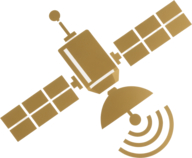
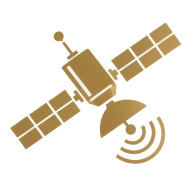
feat: add functional demo mode with isolated database router
Add DemoRouter (thread-local) and DemoModeMiddleware to route
X-Demo-Mode requests to a separate demo database. Register the demo
database in local/production settings plus DATABASE_ROUTERS.

Add seed_demo.py to create and populate the demo DB (5 users, 50
defects, municipality, supports) and reset_demo.sh. Add demo-reset
service (profile demo) with daily reset in docker-compose.

Add loginDemo() in api.js that sends X-Demo-Mode on login and wire
enterDemoMode to it.

Fix offline sync by sending Bearer-prefixed token in service worker
(previously returned 401 forever). Fix email_verified field name in
AuthContext.

Replace header logo SVG with project icon and regenerate square
favicon PNGs.

Changed region(s): [[0.0, 0.0, 1.0, 1.0]]

diff --git a/frontend/src/pages/Login.jsx b/frontend/src/pages/Login.jsx
@@ -43,9 +43,7 @@ export default function Login() {
         className="w-full max-w-md border p-8" style={{ background: 'var(--color-bg-surface)', borderColor: 'var(--color-border-default)' }}>
         <motion.div initial={{ scale: 0.9 }} animate={{ scale: 1 }} transition={{ delay: 0.1, type: 'spring', stiffness: 200 }} className="flex flex-col items-center mb-8">
           <div style={{ width: '3rem', height: '3rem', background: 'var(--color-gold-500)', display: 'flex', alignItems: 'center', justifyContent: 'center', marginBottom: '0.75rem' }}>
-            <svg width="24" height="24" viewBox="0 0 24 24" fill="none" stroke="currentColor" strokeWidth="2" style={{ color: 'var(--color-text-inverse)' }}>
-              <path d="M12 2L2 7l10 5 10-5-10-5zM2 17l10 5 10-5M2 12l10 5 10-5"/>
-            </svg>
+            <img src="/icon.svg" alt="Central de Inteligência Urbana" style={{ width: '100%', height: '100%', objectFit: 'cover' }} />
           </div>
           <h1 className="text-lg font-semibold" style={{ color: 'var(--color-text-primary)' }}>Central de Inteligência Urbana</h1>
           <p className="text-sm mt-2" style={{ color: 'var(--color-text-muted)' }}>Chamados para Serviços Públicos</p>

diff --git a/frontend/src/pages/MapPage.jsx b/frontend/src/pages/MapPage.jsx
@@ -270,9 +270,7 @@ export default function MapPage() {
       <header style={{ display: 'flex', alignItems: 'center', justifyContent: 'space-between', height: 56, padding: '0 16px', flexShrink: 0, borderBottom: '1px solid var(--color-border-default)', background: 'var(--color-bg-elevated)', zIndex: 1000 }}>
         <div className="flex items-center gap-2">
           <div style={{ width: '1.75rem', height: '1.75rem', background: 'var(--color-gold-500)', display: 'flex', alignItems: 'center', justifyContent: 'center', flexShrink: 0 }}>
-            <svg width="14" height="14" viewBox="0 0 24 24" fill="none" stroke="currentColor" strokeWidth="2" style={{ color: 'var(--color-text-inverse)' }}>
-              <path d="M12 2L2 7l10 5 10-5-10-5zM2 17l10 5 10-5M2 12l10 5 10-5"/>
-            </svg>
+            <img src="/icon.svg" alt="Central de Inteligência Urbana" style={{ width: '100%', height: '100%', objectFit: 'cover' }} />
           </div>
           <div className="max-sm:hidden">
             <h1 className="text-sm font-medium" style={{ color: 'var(--color-text-primary)' }}>Central de Inteligência Urbana</h1>

diff --git a/frontend/src/pages/Register.jsx b/frontend/src/pages/Register.jsx
@@ -77,9 +77,7 @@ export default function Register() {
         className="w-full max-w-md border p-8" style={{ background: 'var(--color-bg-surface)', borderColor: 'var(--color-border-default)' }}>
         <div className="flex flex-col items-center mb-8">
           <div style={{ width: '3rem', height: '3rem', background: 'var(--color-gold-500)', display: 'flex', alignItems: 'center', justifyContent: 'center', marginBottom: '0.75rem' }}>
-            <svg width="24" height="24" viewBox="0 0 24 24" fill="none" stroke="currentColor" strokeWidth="2" style={{ color: 'var(--color-text-inverse)' }}>
-              <path d="M12 2L2 7l10 5 10-5-10-5zM2 17l10 5 10-5M2 12l10 5 10-5"/>
-            </svg>
+            <img src="/icon.svg" alt="Central de Inteligência Urbana" style={{ width: '100%', height: '100%', objectFit: 'cover' }} />
           </div>
           <h1 className="text-lg font-semibold" style={{ color: 'var(--color-text-primary)' }}>Criar Conta</h1>
           <p className="text-sm mt-2" style={{ color: 'var(--color-text-muted)' }}>Central de Inteligência Urbana</p>

diff --git a/frontend/src/pages/Landing.jsx b/frontend/src/pages/Landing.jsx
@@ -33,9 +33,7 @@ export default function Landing() {
       <header className="flex items-center justify-between px-5" style={{ height: 56, borderBottom: '1px solid var(--color-border-default)', background: 'var(--color-bg-elevated)', zIndex: 1000 }}>
         <div className="flex items-center gap-2">
           <div style={{ width: '1.75rem', height: '1.75rem', background: 'var(--color-gold-500)', display: 'flex', alignItems: 'center', justifyContent: 'center' }}>
-            <svg width="14" height="14" viewBox="0 0 24 24" fill="none" stroke="currentColor" strokeWidth="2" style={{ color: 'var(--color-text-inverse)' }}>
-              <path d="M12 2L2 7l10 5 10-5-10-5zM2 17l10 5 10-5M2 12l10 5 10-5"/>
-            </svg>
+            <img src="/icon.svg" alt="Central de Inteligência Urbana" style={{ width: '100%', height: '100%', objectFit: 'cover' }} />
           </div>
           <div className="max-sm:hidden">
             <h1 className="text-sm font-medium" style={{ color: 'var(--color-text-primary)' }}>Central de Inteligência Urbana</h1>

diff --git a/frontend/src/App.jsx b/frontend/src/App.jsx
@@ -71,9 +71,7 @@ function AppHeader({ onToggleTheme, onOpenCmd, theme }) {
     }}>
       <div className="flex items-center gap-2 cursor-pointer" onClick={() => navigate('/mapa')} role="button" aria-label="Ir para o mapa">
         <div style={{ width: '1.75rem', height: '1.75rem', background: 'var(--color-gold-500)', display: 'flex', alignItems: 'center', justifyContent: 'center', flexShrink: 0 }}>
-          <svg width="14" height="14" viewBox="0 0 24 24" fill="none" stroke="currentColor" strokeWidth="2" style={{ color: 'var(--color-text-inverse)' }}>
-            <path d="M12 2L2 7l10 5 10-5-10-5zM2 17l10 5 10-5M2 12l10 5 10-5"/>
-          </svg>
+          <img src="/icon.svg" alt="Central de Inteligência Urbana" style={{ width: '100%', height: '100%', objectFit: 'cover' }} />
         </div>
         <div className="max-sm:hidden">
           <h1 className="text-sm font-medium" style={{ color: 'var(--color-text-primary)' }}>Central de Inteligência Urbana</h1>

diff --git a/frontend/src/services/api.js b/frontend/src/services/api.js
@@ -122,6 +122,19 @@ export const api = {
   login: (email, senha) =>
     request('/api/v1/auth/login/', { method: 'POST', body: { email, password: senha } }),
 
+  loginDemo: () =>
+    fetch(`${API_URL}/api/v1/auth/login/`, {
+      method: 'POST',
+      headers: { 'Content-Type': 'application/json', 'X-Demo-Mode': 'true' },
+      body: JSON.stringify({ email: 'demo@ciu.app', password: 'Demo@2024' }),
+    }).then(async (res) => {
+      if (!res.ok) {
+        const err = await res.json().catch(() => ({ detail: 'Erro' }));
+        throw new Error(err.detail || 'Erro no login demo');
+      }
+      return res.json();
+    }),
+
   register: (nome, email, senha, municipioId, cpf) =>
     request('/api/v1/auth/register/', { method: 'POST', body: {
       nome, email, password: senha, confirm_password: senha,

diff --git a/frontend/src/context/AuthContext.jsx b/frontend/src/context/AuthContext.jsx
@@ -48,7 +48,7 @@ export function AuthProvider({ children }) {
         municipio: userData.municipio || null,
         nome: userData.nome || '',
         cpf: userData.cpf || null,
-        email_verificado: userData.email_verificado || false,
+        email_verificado: userData.email_verified || false,
       };
       setUser(userBase);
       subscribeToPush();
@@ -106,7 +106,7 @@ export function AuthProvider({ children }) {
 
   const enterDemoMode = useCallback(async () => {
     try {
-      const res = await api.login('demo@ciu.app', 'Demo@2024');
+      const res = await api.loginDemo();
       login(res);
       setIsDemoMode(true);
       localStorage.setItem('ciu-demo-mode', 'true');

diff --git a/frontend/src/sw.js b/frontend/src/sw.js
@@ -90,7 +90,7 @@ async function processarFilaOffline() {
         const res = await fetch('/api/v1/defeitos/', {
           method: 'POST',
           headers: {
-            Authorization: token,
+            Authorization: `Bearer ${token}`,
           },
           body: formData,
         });

diff --git a/backend-python/scripts/seed_demo.py b/backend-python/scripts/seed_demo.py
@@ -1,0 +1,199 @@
+#!/usr/bin/env python3
+"""
+Popula o banco demo (manutencao_urbana_demo) com dados realistas.
+
+Uso:
+    python scripts/seed_demo.py
+
+Requisitos:
+    - Django configurado (core.settings.local ou production) com a DB 'demo'
+    - PostgreSQL com permissão para DROP/CREATE DATABASE
+"""
+
+import os
+import sys
+import random
+from datetime import datetime, timedelta
+from decimal import Decimal
+
+sys.path.insert(0, os.path.dirname(os.path.dirname(os.path.abspath(__file__))))
+
+os.environ.setdefault('DJANGO_SETTINGS_MODULE', 'core.settings.local')
+
+import django
+
+django.setup()
+
+from django.db import connections
+from django.contrib.auth.hashers import make_password
+
+from core.management.commands.bootstrap_schema import SCHEMA, SEED_CATEGORIAS
+
+DEMO_DB = 'demo'
+DEMO_DB_NAME = os.environ.get('DB_DEMO_NAME', 'manutencao_urbana_demo')
+
+# Coordenadas de Ribeirão Preto-SP
+BAIRROS = [
+    (-21.1700, -47.8100, "Centro"),
+    (-21.1800, -47.8300, "Jardim América"),
+    (-21.1650, -47.8050, "Vila Romana"),
+    (-21.1900, -47.8400, "Ipiranga"),
+    (-21.1750, -47.7950, "Sumaré"),
+]
+
+CATEGORIAS = [nome for nome, *_ in SEED_CATEGORIAS]
+STATUS_CHOICES = [
+    "pendente", "triado", "em_andamento", "atendido", "encerrado",
+]
+PRIORIDADES = ["baixa", "media", "alta", "urgente"]
+
+USUARIOS_DEMO = [
+    ("demo@ciu.app", "Administrador Demo", 1, "3543402"),
+    ("atendente@demo.com", "Atendente Municipal", 1, "3543402"),
+    ("cidadao1@demo.com", "Cidadão Um", 0, "3543402"),
+    ("cidadao2@demo.com", "Cidadão Dois", 0, "3543402"),
+    ("cidadao3@demo.com", "Cidadão Três", 0, "3543402"),
+]
+
+
+def create_demo_database():
+    """Cria o banco demo vazio (DROP + CREATE)."""
+    conn = connections['default']
+    conn.set_autocommit(True)
+    with conn.cursor() as cursor:
+        cursor.execute(f"DROP DATABASE IF EXISTS {DEMO_DB_NAME}")
+        cursor.execute(f"CREATE DATABASE {DEMO_DB_NAME}")
+    conn.set_autocommit(False)
+    print(f"[seed] Banco demo '{DEMO_DB_NAME}' recriado.")
+    # Fechar conexões default para liberar o novo banco
+    connections['default'].close()
+
+
+def apply_schema():
+    """Aplica o schema (bootstrap) no banco demo."""
+    with connections[DEMO_DB].cursor() as cur:
+        for stmt in SCHEMA:
+            cur.execute(stmt)
+        for nome, icone, prioridade, prazo in SEED_CATEGORIAS:
+            cur.execute(
+                """
+                INSERT INTO categorias (nome, icone, prioridade_base, prazo_sla_dias)
+                VALUES (%s, %s, %s, %s)
+                ON CONFLICT (nome) DO NOTHING
+                """,
+                [nome, icone, prioridade, prazo],
+            )
+    print("[seed] Schema aplicado no banco demo.")
+
+
+def seed_users():
+    password_hash = make_password('Demo@2024')
+    with connections[DEMO_DB].cursor() as cur:
+        for email, nome, admin, municipio in USUARIOS_DEMO:
+            cur.execute(
+                """
+                INSERT INTO users (id, nome, email, senha, admin, municipio_id, email_verificado)
+                VALUES (gen_random_uuid(), %s, %s, %s, %s, %s, 1)
+                ON CONFLICT (email) DO NOTHING
+                """,
+                [nome, email, password_hash, admin, municipio],
+            )
+    print(f"[seed] {len(USUARIOS_DEMO)} usuários demo criados.")
+
+
+def seed_municipios():
+    with connections[DEMO_DB].cursor() as cur:
+        cur.execute(
+            """
+            INSERT INTO municipios (codigo, nome, uf, uf_sigla, min_lat, max_lat, min_lng, max_lng)
+            VALUES (%s, %s, %s, %s, %s, %s, %s, %s)
+            ON CONFLICT (codigo) DO NOTHING
+            """,
+            ["3543402", "Ribeirão Preto", "São Paulo", "SP",
+             -21.30, -21.00, -47.95, -47.60],
+        )
+    print("[seed] Município demo criado.")
+
+
+def seed_defeitos():
+    with connections[DEMO_DB].cursor() as cur:
+        cur.execute(
+            "SELECT id FROM users WHERE email LIKE '%%@demo.com' OR email = 'demo@ciu.app'"
+        )
+        user_ids = [row[0] for row in cur.fetchall()]
+        if not user_ids:
+            print("[seed] Nenhum usuário demo encontrado; pulando defeitos.")
+            return
+
+        now = datetime.now()
+        for i in range(50):
+            lat, lng, bairro = random.choice(BAIRROS)
+            lat += random.uniform(-0.01, 0.01)
+            lng += random.uniform(-0.01, 0.01)
+            categoria = random.choice(CATEGORIAS)
+            status = random.choice(STATUS_CHOICES)
+            prioridade = random.choice(PRIORIDADES)
+            usuario = random.choice(user_ids)
+            dias_atras = random.randint(1, 30)
+            criado_em = now - timedelta(days=dias_atras)
+
+            cur.execute(
+                """
+                INSERT INTO defeitos (
+                    id, usuario, titulo, descricao, latitude, longitude,
+                    localizacao, rua, bairro, categoria, status, prioridade,
+                    criado_em, atualizado_em
+                ) VALUES (
+                    gen_random_uuid(), %s, %s, %s, %s, %s,
+                    ST_SetSRID(ST_MakePoint(%s, %s), 4326), %s, %s, %s, %s, %s, %s, %s
+                )
+                """,
+                [
+                    usuario,
+                    f"Defeito demo #{i + 1}",
+                    f"Descrição do defeito de {categoria.lower()} no bairro {bairro}.",
+                    lat, lng,
+                    lng, lat,
+                    f"Rua Demo {i + 1}", bairro,
+                    categoria, status, prioridade,
+                    criado_em, criado_em,
+                ],
+            )
+    print("[seed] 50 defeitos demo criados.")
+
+
+def seed_apoios():
+    with connections[DEMO_DB].cursor() as cur:
+        cur.execute("SELECT id FROM users WHERE email LIKE 'cidadao%%@demo.com'")
+        cidadaos = [row[0] for row in cur.fetchall()]
+        cur.execute("SELECT id FROM defeitos LIMIT 50")
+        defeitos = [row[0] for row in cur.fetchall()]
+        if not cidadaos or not defeitos:
+            print("[seed] Sem cidadãos/defeitos; pulando apoios.")
+            return
+        for defeito in random.sample(defeitos, min(20, len(defeitos))):
+            cidadao = random.choice(cidadaos)
+            cur.execute(
+                """
+                INSERT INTO apoios (usuario_id, defeito_id)
+                VALUES (%s, %s)
+                ON CONFLICT (usuario_id, defeito_id) DO NOTHING
+                """,
+                [cidadao, defeito],
+            )
+    print("[seed] Apoios demo criados.")
+
+
+def main():
+    print("Iniciando seed do banco demo...")
+    create_demo_database()
+    apply_schema()
+    seed_municipios()
+    seed_users()
+    seed_defeitos()
+    seed_apoios()
+    print("Seed do banco demo concluído!")
+
+
+if __name__ == '__main__':
+    main()

diff --git a/backend-python/core/db_router.py b/backend-python/core/db_router.py
@@ -1,0 +1,39 @@
+import threading
+
+_thread_local = threading.local()
+
+
+def get_current_request():
+    return getattr(_thread_local, 'request', None)
+
+
+def set_current_request(request):
+    _thread_local.request = request
+
+
+def clear_current_request():
+    _thread_local.request = None
+
+
+class DemoRouter:
+    """Roteia requests para o banco demo quando o header X-Demo-Mode está presente."""
+
+    def db_for_read(self, model, **hints):
+        request = get_current_request()
+        if request and request.headers.get('X-Demo-Mode') == 'true':
+            return 'demo'
+        return 'default'
+
+    def db_for_write(self, model, **hints):
+        request = get_current_request()
+        if request and request.headers.get('X-Demo-Mode') == 'true':
+            return 'demo'
+        return 'default'
+
+    def allow_relation(self, obj1, obj2, **hints):
+        return True
+
+    def allow_migrate(self, db, app_label, model_name=None, **hints):
+        if db == 'demo':
+            return False
+        return True

diff --git a/backend-python/core/settings/production.py b/backend-python/core/settings/production.py
@@ -17,7 +17,19 @@ DATABASES = {
         'OPTIONS': {
             'options': '-c timezone=UTC',
         },
-    }
+    },
+    'demo': {
+        'ENGINE': 'django.contrib.gis.db.backends.postgis',
+        'NAME': os.environ.get('DB_DEMO_NAME', 'manutencao_urbana_demo'),
+        'USER': os.environ.get('DB_USER', 'urbana'),
+        'PASSWORD': os.environ.get('DB_PASSWORD', ''),
+        'HOST': os.environ.get('DB_HOST', 'postgres'),
+        'PORT': os.environ.get('DB_PORT', '5432'),
+        'CONN_MAX_AGE': 60,
+        'OPTIONS': {
+            'options': '-c timezone=UTC',
+        },
+    },
 }
 
 CORS_ALLOWED_ORIGINS = os.environ.get('FRONTEND_URL', '').split(',')

diff --git a/backend-python/core/settings/local.py b/backend-python/core/settings/local.py
@@ -19,7 +19,18 @@ DATABASES = {
         'TEST': {
             'NAME': 'test_manutencao_urbana',
         },
-    }
+    },
+    'demo': {
+        'ENGINE': 'django.contrib.gis.db.backends.postgis',
+        'NAME': os.environ.get('DB_DEMO_NAME', 'manutencao_urbana_demo'),
+        'USER': os.environ.get('DB_USER', 'urbana'),
+        'PASSWORD': os.environ.get('DB_PASSWORD', ''),
+        'HOST': os.environ.get('DB_HOST', 'localhost'),
+        'PORT': os.environ.get('DB_PORT', '5432'),
+        'OPTIONS': {
+            'options': '-c timezone=UTC',
+        },
+    },
 }
 
 REST_FRAMEWORK['DEFAULT_RENDERER_CLASSES'] = (
